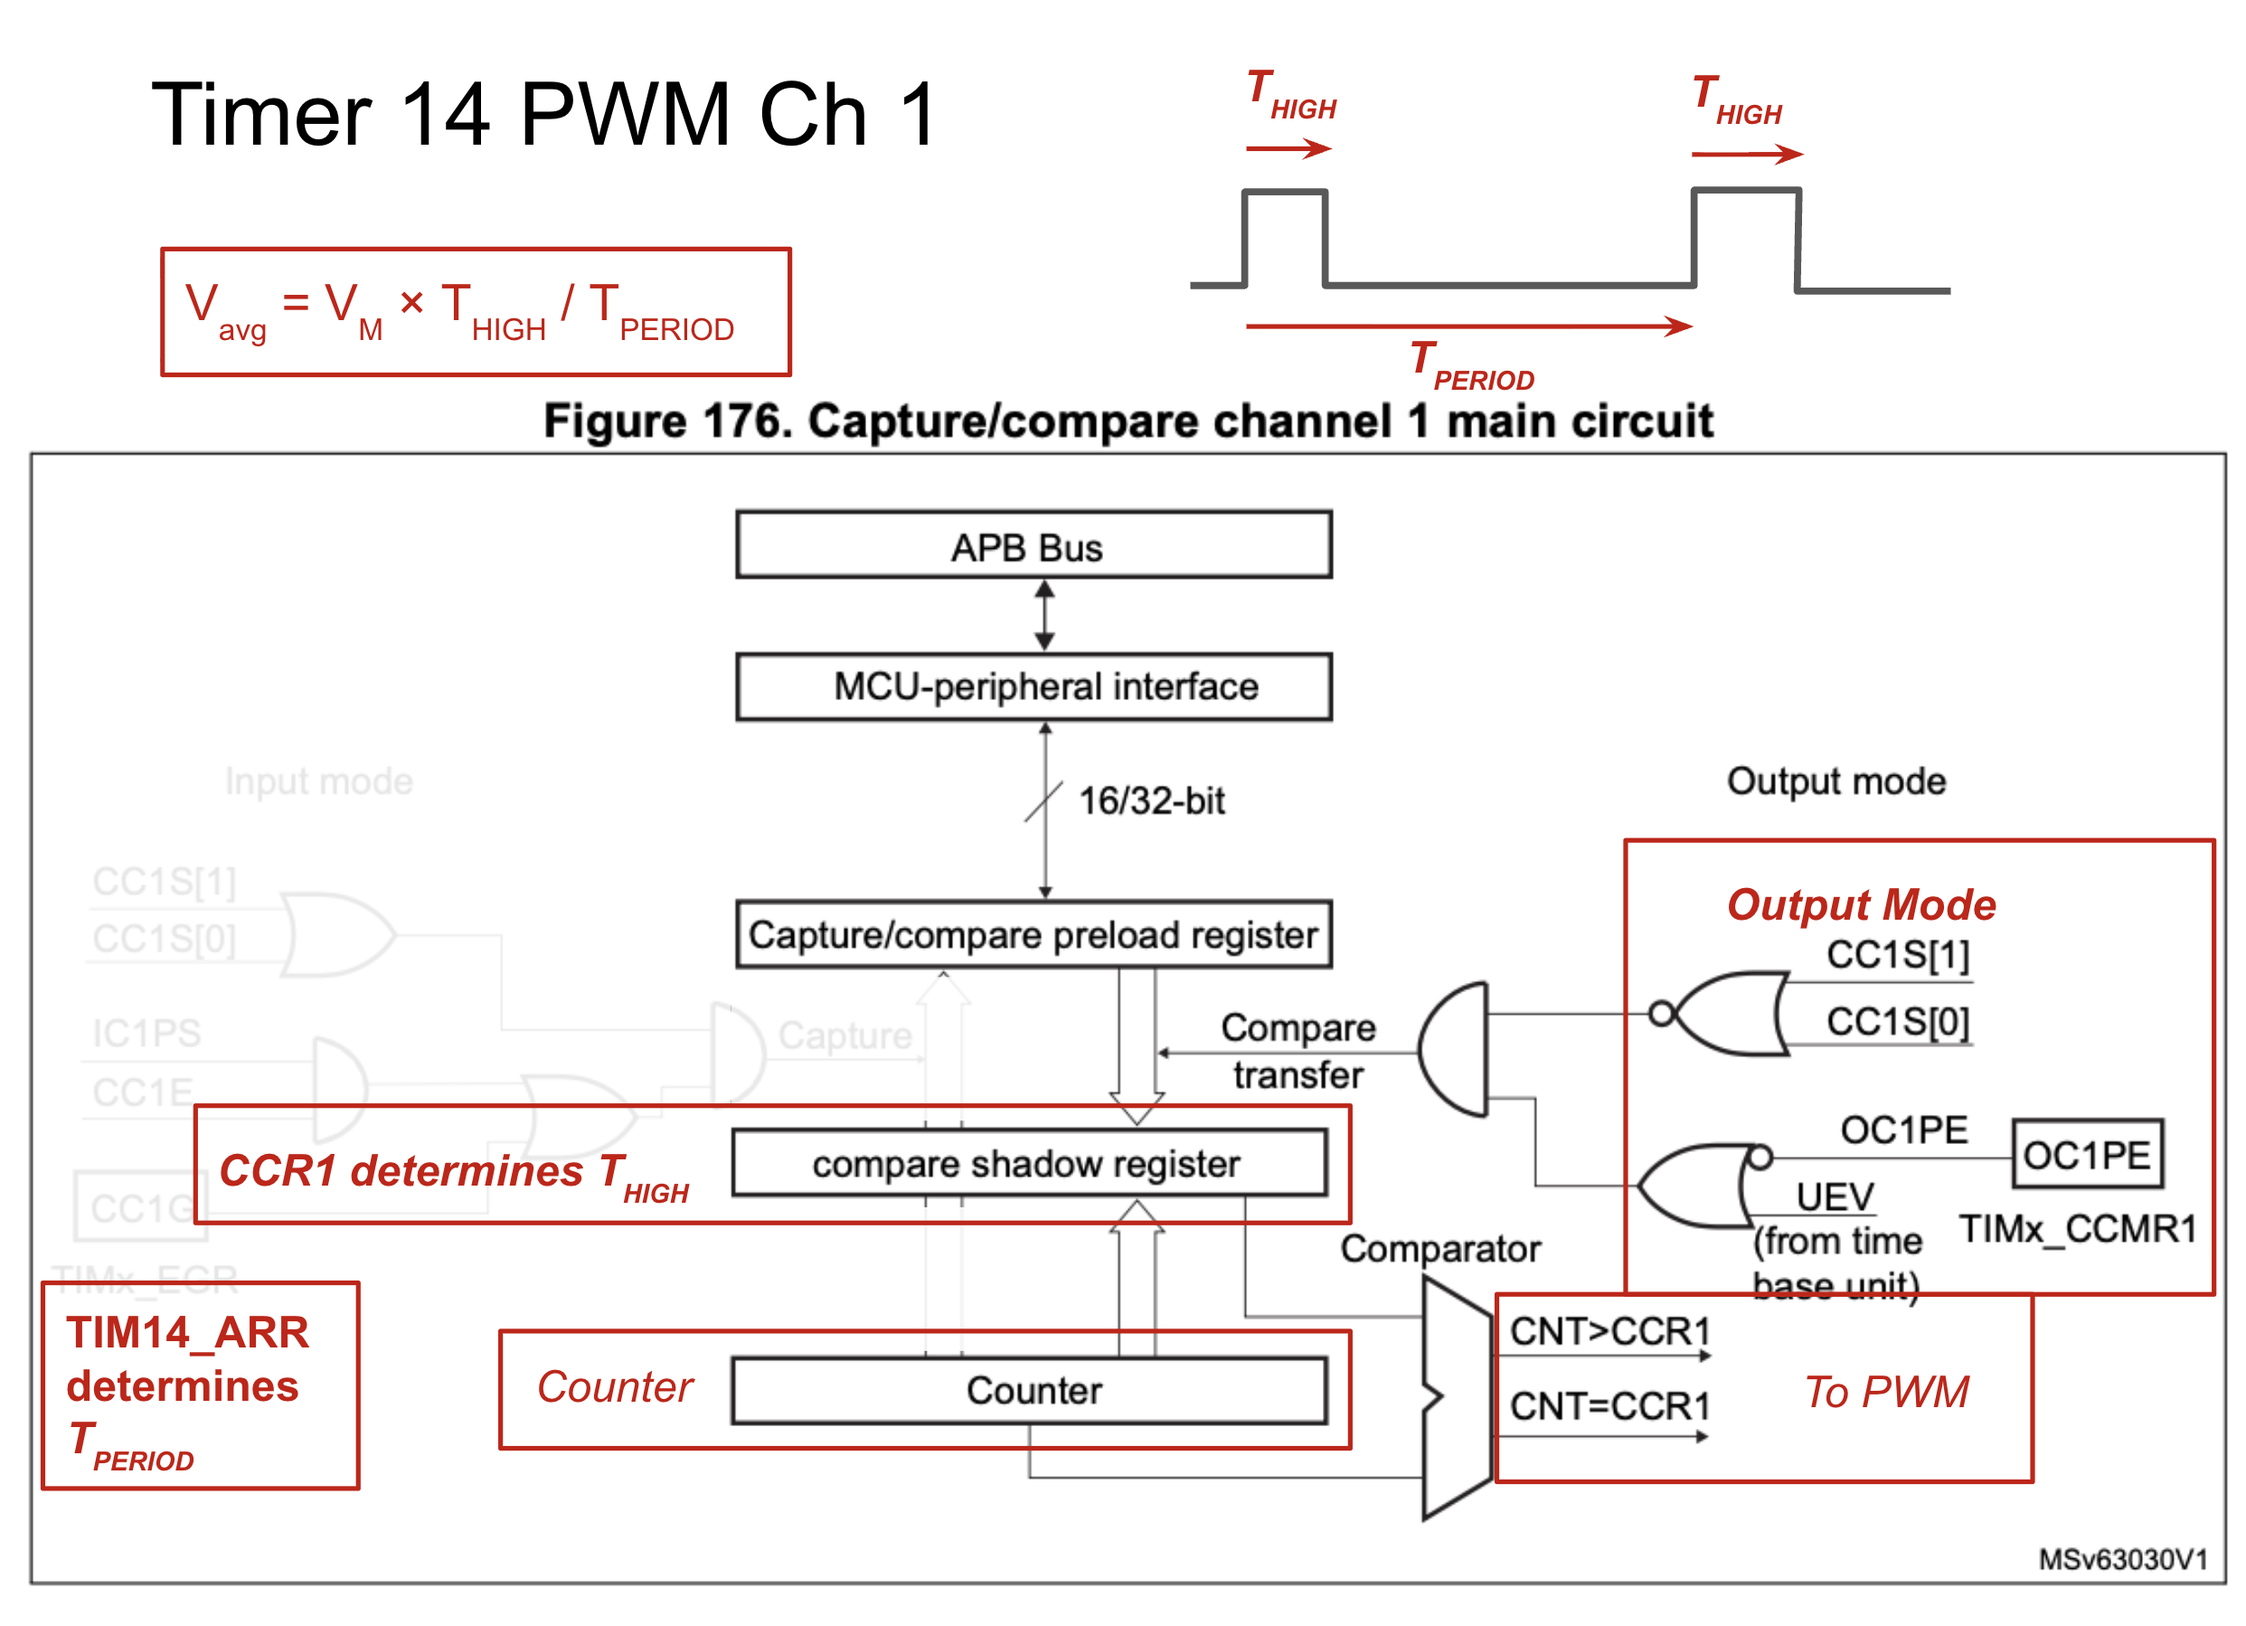
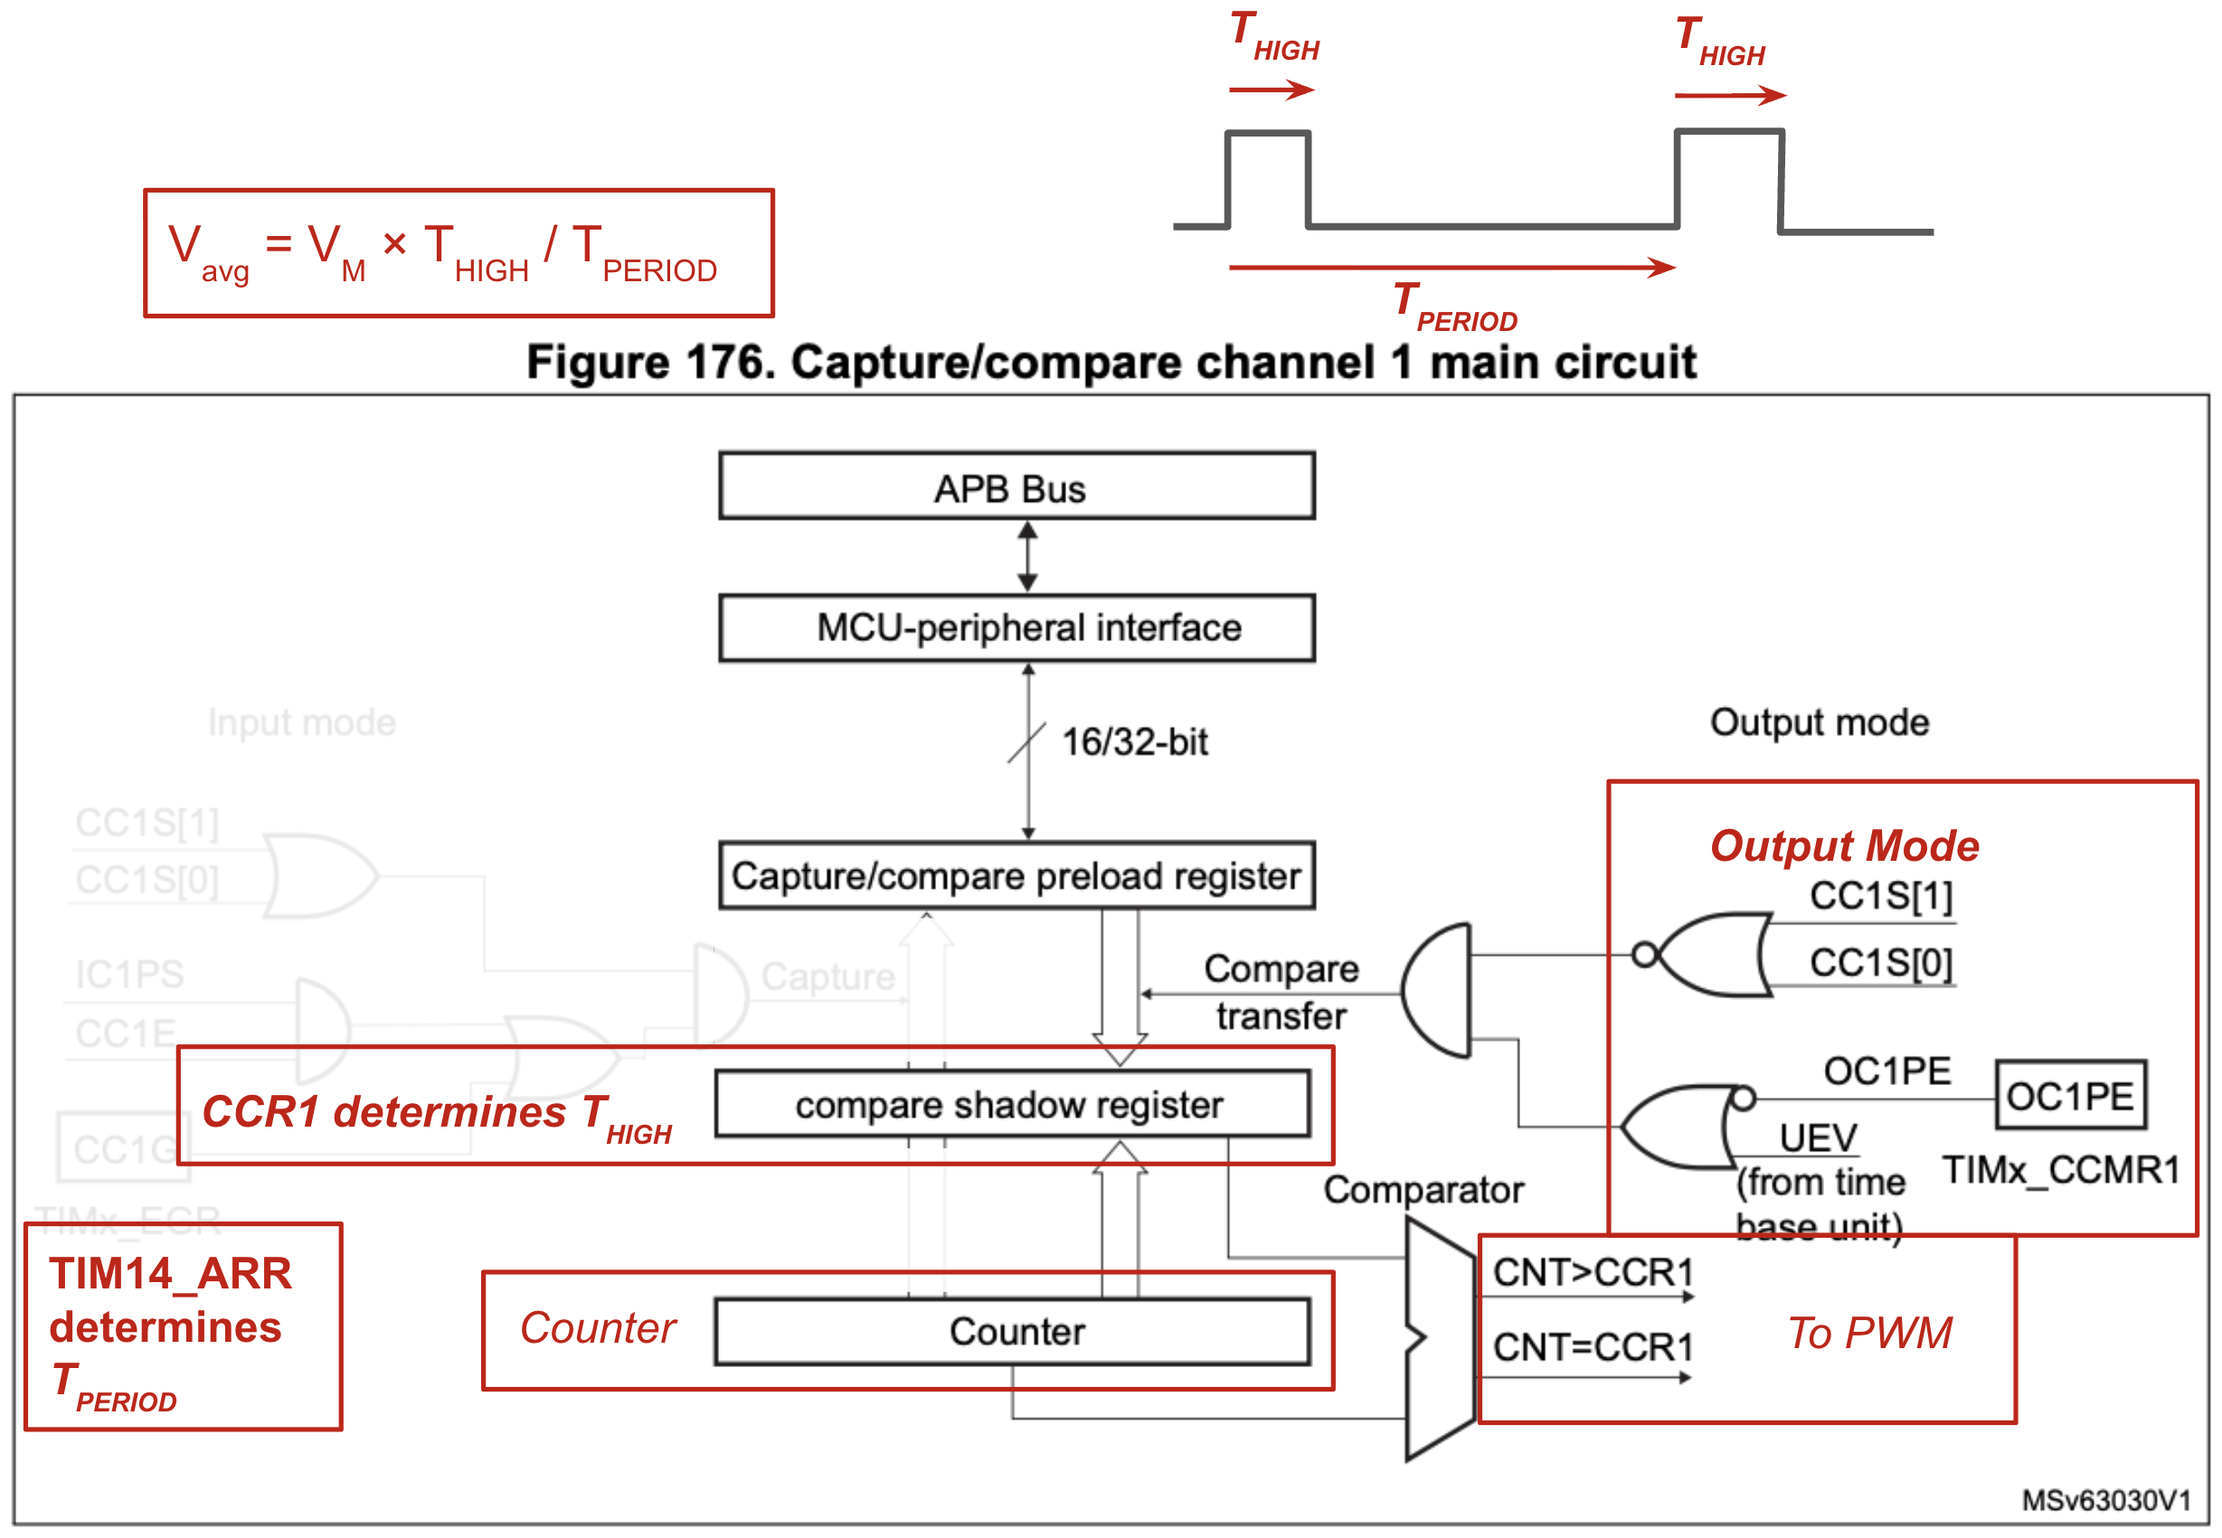
Day 11x: your Figure 177 fix, cropped headers, and the Day 11 scope video
Your correction to Figure 177 is kept, and the caption now describes what
we actually show rather than what the manual prints -- see the answer to
your pedagogy question in the reply.

Crops, per your note about duplicate headers:

- the "Timer 14 PWM Ch 1" title is cleared from Figures 176 and 177.  It
  could not be cropped as a band, because your waveform sits at the same
  height on the right, so the title area is whited out and everything else
  is untouched.
- all three images then had their dead white margins trimmed, which is
  worth a little: the aspect goes 1.38 -> 1.44, 1.59 -> 1.62, 1.83 -> 1.85,
  so they letterbox slightly less against the player's 16:9.

Day 11's scope still is now your YouTube video (MuDX2vrNV3Q, from the
speaker note on your Day 11 slide 29).  That had one knock-on I had to
resolve: Day 11x's prediction slide was reusing fig-pwm-scope, and a moving
trace is the wrong thing to reason from when the question is "which number
is changing" -- it also overflowed the slide.  So Day 11x now has
fig-pwm-scope-still of its own, and the refPage is gone.  Day 11 watches it
move; Day 11x reasons about it stopped.

One more player fix in the same family as the video sizing: a video figure
ref'd onto a slide kept its full book caption, so Day 11's scope slide
projected the textbook caption AND the slide caption stacked.  The image
branch already dropped it; the video branch does now too.  A ref'd TABLE
[…]

Changed region(s): [[0.0, 0.0, 1.0, 0.9971], [0.0619, 0.0312, 0.433, 0.0935], [0.6805, 0.7166, 0.7424, 0.7478]]

diff --git a/assets/class.html b/assets/class.html
@@ -1023,6 +1023,18 @@
                 } else {
                   // An activity or other non-image element (already slide-sized):
                   // render it full width, under any framing text the slide carries.
+                  // A VIDEO is a figure like any other and gets the same treatment as
+                  // the image branch above: drop its book caption so the slide's own
+                  // instructive one is the only line under it. Without this the Day 11
+                  // scope video projected the full textbook caption AND the slide
+                  // caption, one on top of the other. A ref'd TABLE is deliberately
+                  // NOT included -- its figcaption is the table's title, which the
+                  // room does read.
+                  if (mediaClone.querySelector('.video-box, iframe')) {
+                    ;[].forEach.call(mediaClone.querySelectorAll('figcaption, .figure-caption'), function (el) {
+                      if (el.parentNode) el.parentNode.removeChild(el)
+                    })
+                  }
                   refBody.appendChild(mediaClone)
                   // Non-image refs (e.g. a table) still get the slide's own
                   // instructive caption — shown below, in the body column.

diff --git a/plans/day11x.md b/plans/day11x.md
@@ -296,9 +296,14 @@ get named, not walked line by line. They are lower-stakes than the `CCR1` closur
   is not re-derived.
 - `TIM14->CCR1 = 0;` named: the one line of the init that is safety rather than
   configuration, and Lab 6's `motor_init()` needs it.
-- `tim14_pwm_set()`: the clamp, and the single assignment to `CCR1`. Instructor note
-  — the `value < 0` branch is unreachable on a `uint16_t`; a student reading
-  carefully will ask.
+- `tim14_pwm_set()`: the clamp, and the single assignment to `CCR1`. The
+  `value < 0` branch is unreachable on a `uint16_t`, and a student reading carefully
+  will say so — **keep it, and say why** (Petra, 2026-08-19): the guard is there for
+  the signature, not for this call. In Lab 6 they write `motor_speed()` themselves
+  and taking an `int16_t` is the natural choice, since the ramp counter is signed and
+  `abs()` is easy to forget. The moment the parameter is signed, that branch is all
+  that stands between a negative speed and a compare value of 65,000-odd. **This
+  becomes prose in delivery 2**; it is a presenter note for now.
 - The ramp's two asides (her slides 14, 15): **point at** the brake-before-reverse
   code and recall the why from Day 11 rather than re-deriving it; `abs()` on a
   bipolar ramp.
